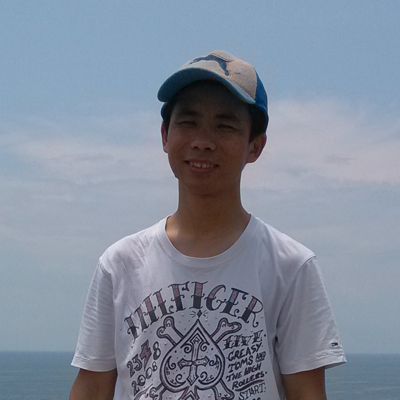
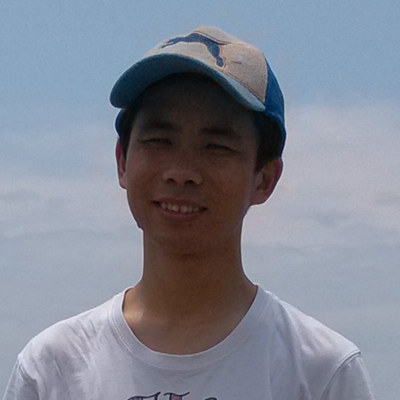
update image of yubo

diff --git a/index.html b/index.html
@@ -208,7 +208,7 @@
           </li>
           <li class="speaker">
             <a href="http://lifesinger.github.io" target="_blank">
-              <img src="http://jsconfcn.qiniudn.com/img/speaker-yubo.png?imageView/2/w/150" />
+              <img src="http://jsconfcn.qiniudn.com/img/speaker-yubo-updated.png?imageView/2/w/150" />
               <label data-i18n="speaker.yubo.name"></label>
               <label class="speaker-into" data-i18n="speaker.yubo.description"></label>
             </a>
